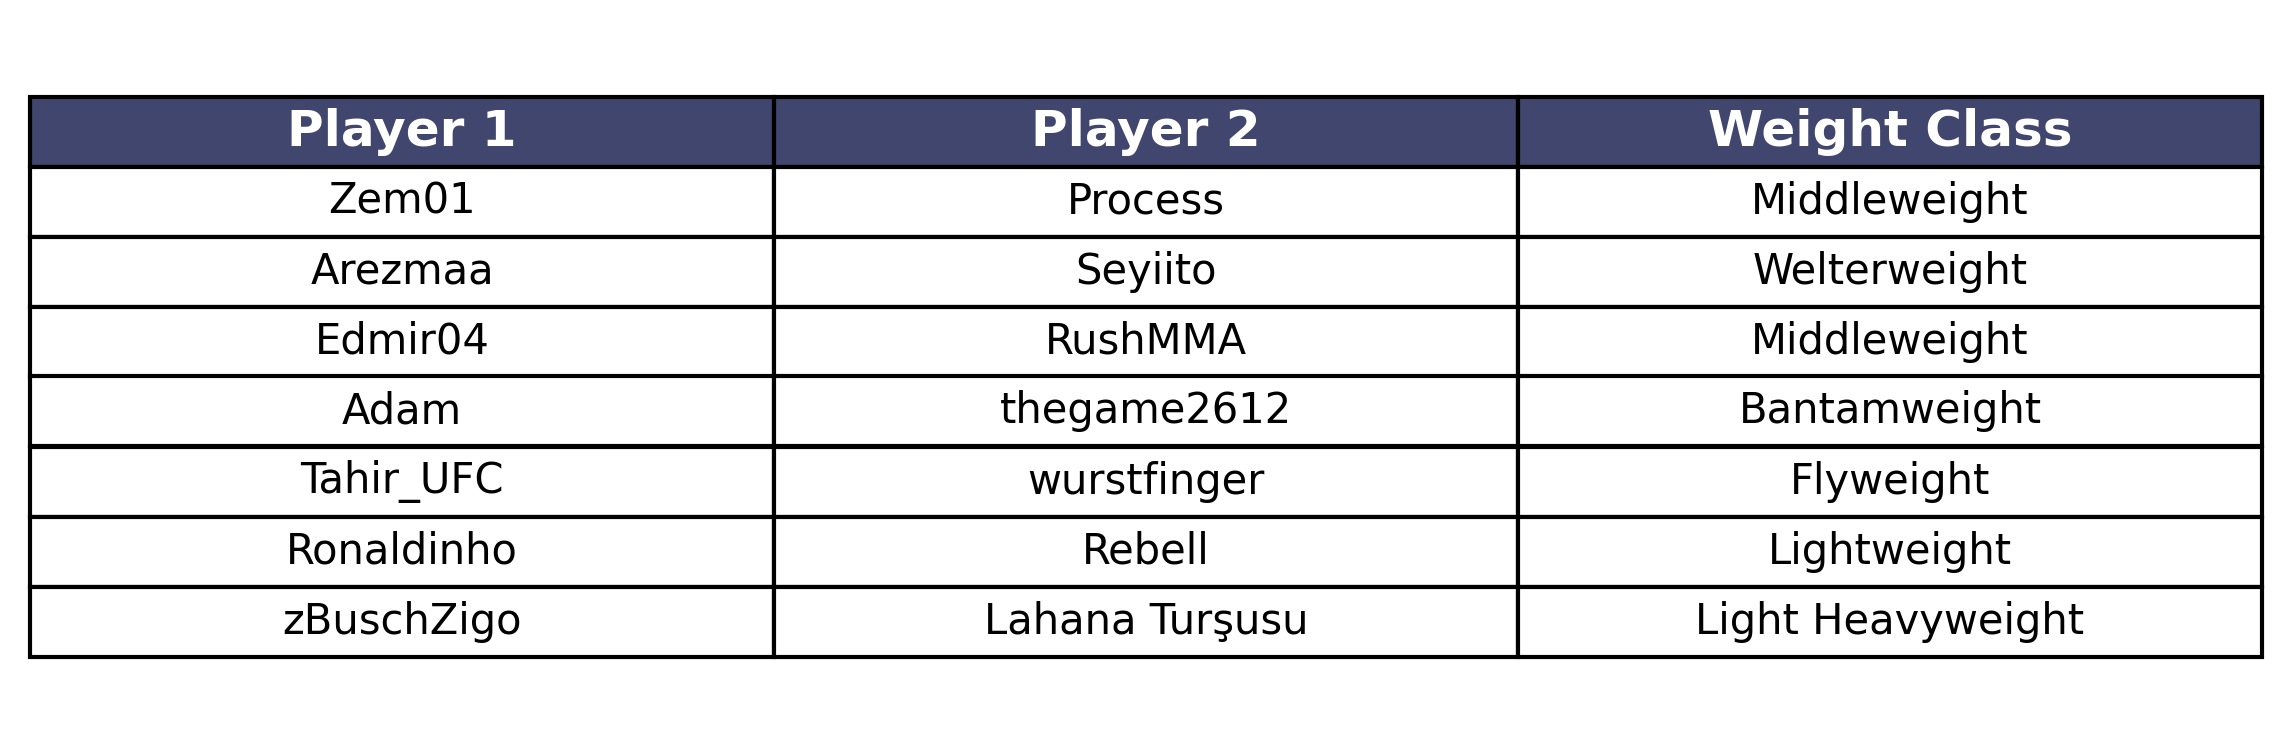
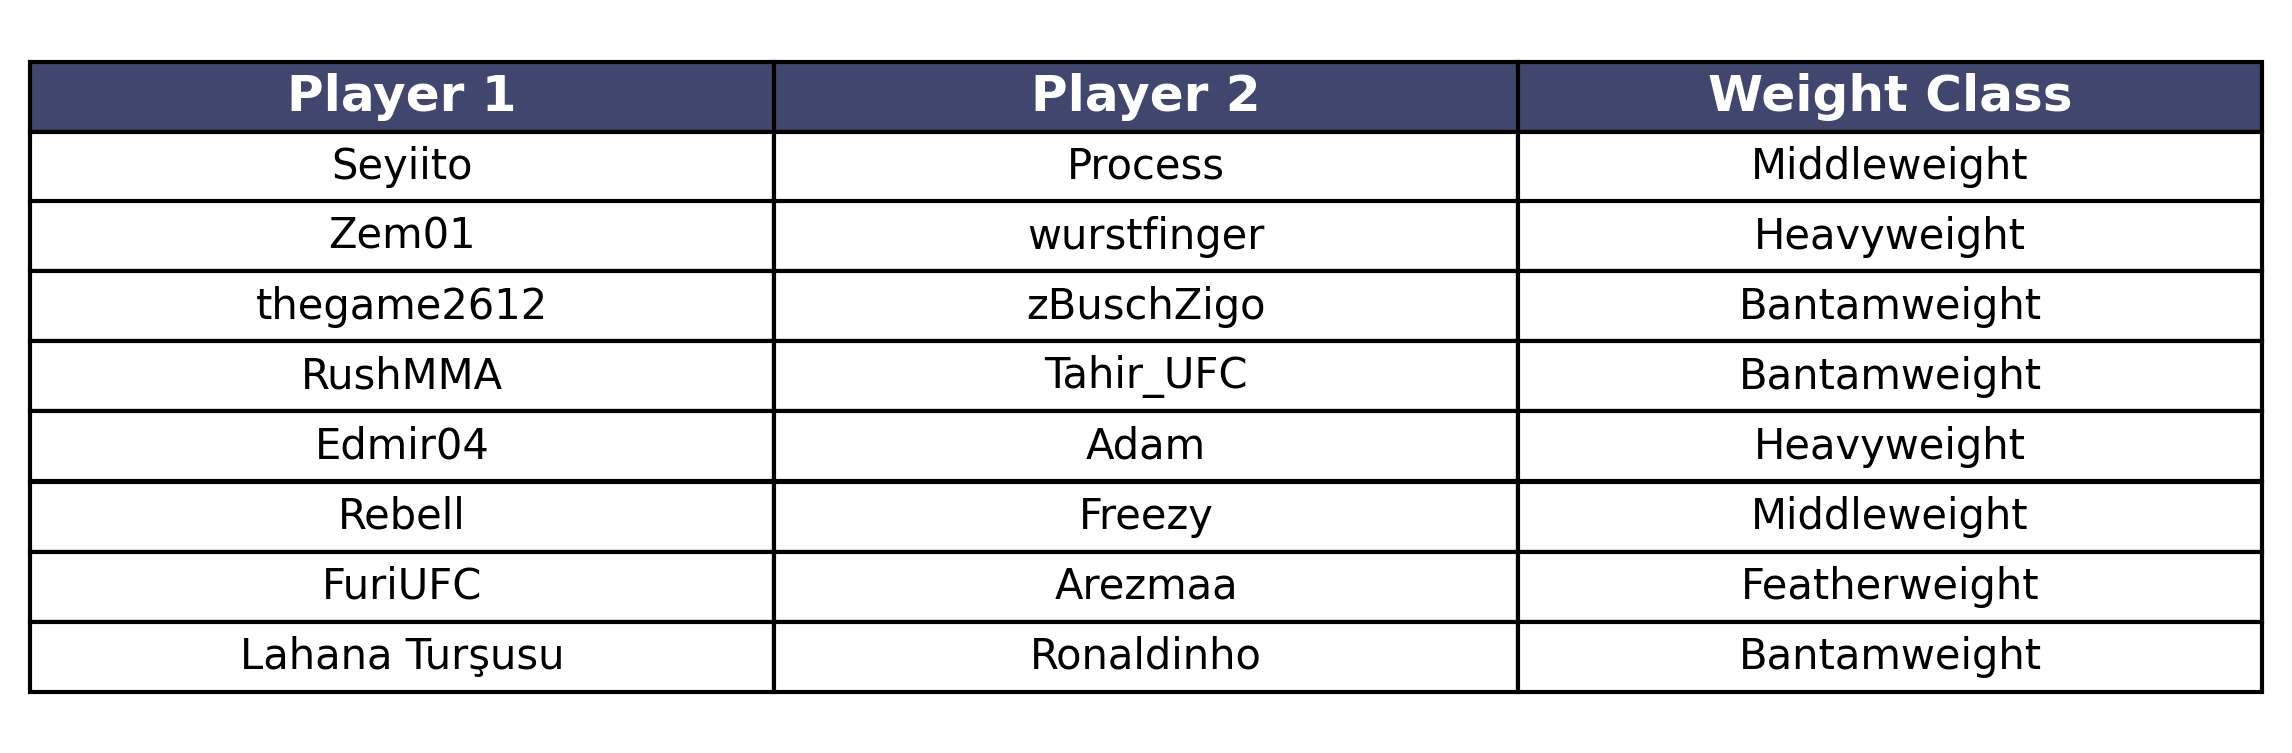
Add ranking method

Changed region(s): [[0.0, 0.0611, 0.9913, 0.8858], [0.0, 0.9163, 0.9913, 0.9469]]

diff --git a/ranking.py b/ranking.py
@@ -1,0 +1,109 @@
+import time
+import pandas as pd
+import matplotlib.pyplot as plt
+from matplotlib.colors import LinearSegmentedColormap
+
+def rank(data):
+    # Create a new list with total matches and win-loss difference calculated
+    ranked_players = []
+    for player in data['rankings']:
+        total_matches = player['wins'] + player['draws'] + player['losses']
+        win_loss_diff = player['wins'] - player['losses']
+        win_rate = int((player['wins'] / total_matches) * 100 if total_matches > 0 else 0)
+        player_with_stats = {
+            "Player": player['player'],
+            "Wins": player['wins'],
+            "Draws": player['draws'],
+            "Losses": player['losses'],
+            "Diff (W-L)": win_loss_diff,
+            "Total": total_matches,
+            "Win Rate (%)": win_rate
+        }
+        ranked_players.append(player_with_stats)
+
+    # Sort the rankings based on win-loss difference (descending), then total matches (descending)
+    sorted_rankings = sorted(
+        ranked_players,
+        key=lambda x: (-x['Diff (W-L)'], -x['Total'])
+    )
+
+    # Assign positions with handling for ties, ensuring positions always increase by 1
+    current_position = 1
+    for index, player in enumerate(sorted_rankings):
+        if index > 0:
+            previous_player = sorted_rankings[index - 1]
+            if (player['Wins'], player['Draws'], player['Losses'], player['Diff (W-L)'], player['Total']) == \
+               (previous_player['Wins'], previous_player['Draws'], previous_player['Losses'], previous_player['Diff (W-L)'], previous_player['Total']):
+                player['Pos'] = current_position
+            else:
+                current_position += 1
+                player['Pos'] = current_position
+        else:
+            player['Pos'] = current_position
+
+    # Convert the list to a pandas DataFrame
+    df = pd.DataFrame(sorted_rankings, columns=['Pos', 'Player', 'Wins', 'Draws', 'Losses', 'Diff (W-L)', 'Total', 'Win Rate (%)'])
+
+    return df
+
+# Sample data without the position attribute
+data = {
+    "rankings": [
+        {"player": "ZEMO1", "wins": 2, "draws": 0, "losses": 0},
+        {"player": "TAHIR_UFC", "wins": 2, "draws": 0, "losses": 0},
+        {"player": "LAHANA TURSUSU", "wins": 2, "draws": 0, "losses": 0},
+        {"player": "PROCESS", "wins": 1, "draws": 0, "losses": 0},
+        {"player": "ZBUSCHZIGO", "wins": 1, "draws": 0, "losses": 0},
+        {"player": "FURIUFC", "wins": 1, "draws": 0, "losses": 0},
+        {"player": "EDMIRO4", "wins": 1, "draws": 0, "losses": 1},
+        {"player": "FREEZY", "wins": 0, "draws": 0, "losses": 1},
+        {"player": "THEGAME", "wins": 0, "draws": 0, "losses": 1},
+        {"player": "RONALDINHO", "wins": 0, "draws": 0, "losses": 1},
+        {"player": "DERTIJARISTO69", "wins": 0, "draws": 0, "losses": 1},
+        {"player": "REBELL", "wins": 0, "draws": 0, "losses": 1},
+        {"player": "ATILLA", "wins": 0, "draws": 0, "losses": 1},
+        {"player": "ALPI", "wins": 0, "draws": 0, "losses": 2}
+    ]
+}
+
+# Call the function and get the DataFrame
+df = rank(data)
+
+# Plot the DataFrame as a table
+fig, ax = plt.subplots(figsize=(12, 8))
+
+# Remove the axes
+ax.axis('off')
+ax.axis('tight')
+
+# Define a custom color map
+cmap = LinearSegmentedColormap.from_list('custom_cmap', ['#ffcccc', '#ccffcc'], N=100)
+
+# Create a table with colored cells based on the position
+table = ax.table(cellText=df.values, colLabels=df.columns, cellLoc='center', loc='center', colColours=["#40466e"] * len(df.columns))
+
+# Style the header
+table.auto_set_font_size(False)
+table.set_fontsize(12)
+
+# Adjust the scale - make the second column wider and all others tighter
+table.scale(1.0, 2.0)  # Overall scale for height
+table.auto_set_column_width([i for i in range(len(df.columns))])  # Make all columns equally wide
+
+for key, cell in table.get_celld().items():
+    if key[0] == 0:
+        cell.set_text_props(weight='bold', color='white')
+        cell.set_facecolor('#40466e')
+    else:
+        cell.set_facecolor(cmap((key[0]-1) / len(df)))
+        cell.set_text_props(color='black')
+
+# Add title and subtitle
+plt.suptitle('Rangliste', fontsize=20, fontweight='bold', color='#40466e')
+plt.title('FFL Season-01', fontsize=16, color='#40466e')
+
+plt.subplots_adjust(top=0.8)  # Adjust title position
+
+# Save the figure as an image
+plt.savefig('ffl-ranking' + time.strftime("%Y%m%d-%H%M%S") + '.png', bbox_inches='tight', dpi=300)
+

diff --git a/ffl-matches.py b/ffl-matches.py
@@ -14,14 +14,14 @@ players = [
     "thegame2612",
     "Tahir_UFC",
     # "Atilla",
-    # "Freezy",
+    "Freezy",
     "Edmir04", 
     "Process", 
     "Ronaldinho",
     "Rebell",
     "Adam",
     "Lahana Turşusu", 
-    # "FuriUFC",
+    "FuriUFC",
     "zBuschZigo",
     "Zem01",
     ]
